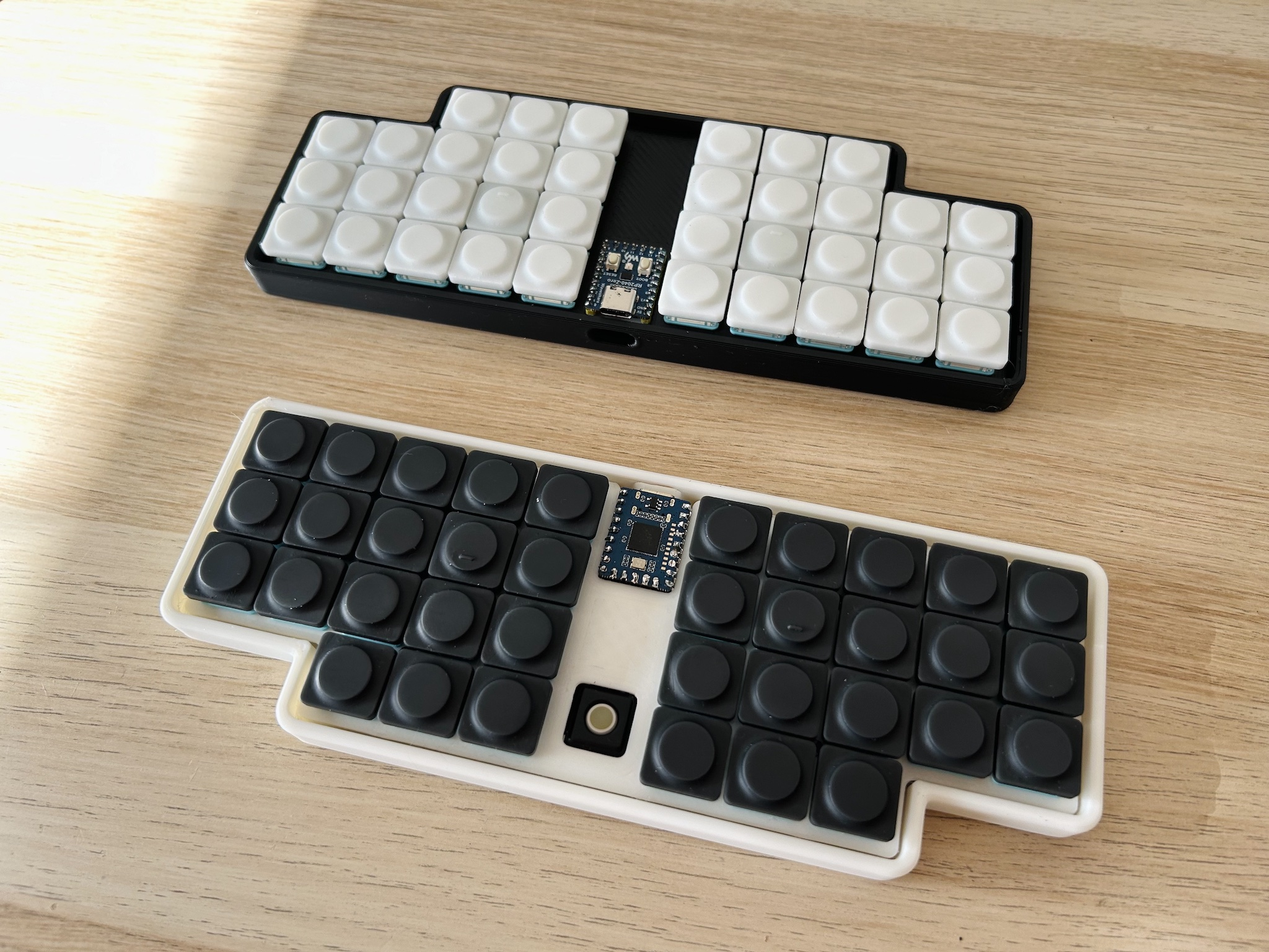
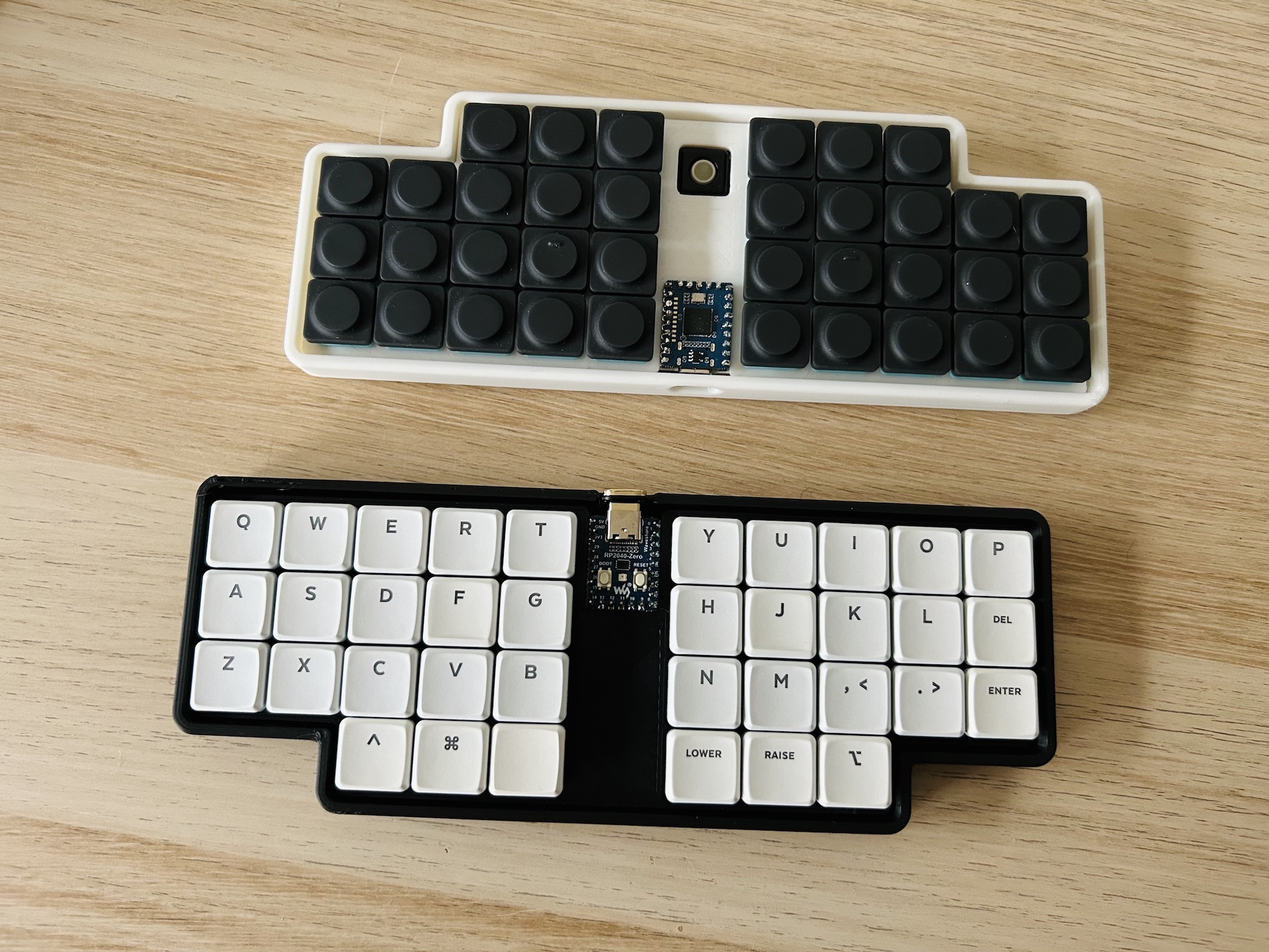
Update keymaps

diff --git a/firmware/QMK/keymaps/default/keymap.c b/firmware/QMK/keymaps/default/keymap.c
@@ -5,7 +5,7 @@ const uint16_t PROGMEM keymaps[][MATRIX_ROWS][MATRIX_COLS] = {
         KC_Q,    KC_W,    KC_E,    KC_R,   KC_T,   KC_Y,   KC_U,   KC_I,     KC_O,   KC_P,
         KC_A,    KC_S,    KC_D,    KC_F,   KC_G,   KC_H,   KC_J,   KC_K,     KC_L,   KC_BSPC,
         KC_Z,    KC_X,    KC_C,    KC_V,   KC_B,   KC_N,   KC_M,   KC_COMM,  KC_DOT, RSFT_T(KC_ENT),
-        KC_LSFT, TG(1),   KC_LGUI, KC_SPC, KC_SPC, TG(2),  KC_RALT
+        KC_LCTL, KC_LGUI, KC_SPC, KC_SPC,  MO(1),  MO(2),  KC_RALT
     ),
     [1] = LAYOUT( /* NAV */
         KC_ESC,  _______, _______, KC_TAB,  _______, KC_PGUP, KC_HOME, KC_UP,   KC_END,  _______,

diff --git a/firmware/QMK/keymaps/via/keymap.c b/firmware/QMK/keymaps/via/keymap.c
@@ -5,7 +5,7 @@ const uint16_t PROGMEM keymaps[][MATRIX_ROWS][MATRIX_COLS] = {
         KC_Q,    KC_W,    KC_E,    KC_R,   KC_T,   KC_Y,   KC_U,   KC_I,     KC_O,   KC_P,
         KC_A,    KC_S,    KC_D,    KC_F,   KC_G,   KC_H,   KC_J,   KC_K,     KC_L,   KC_BSPC,
         KC_Z,    KC_X,    KC_C,    KC_V,   KC_B,   KC_N,   KC_M,   KC_COMM,  KC_DOT, RSFT_T(KC_ENT),
-        KC_LSFT, TG(1),   KC_LGUI, KC_SPC, KC_SPC, TG(2),  KC_RALT
+        KC_LCTL, KC_LGUI, KC_SPC, KC_SPC,  MO(1),  MO(2),  KC_RALT
     ),
     [1] = LAYOUT( /* NAV */
         KC_ESC,  _______, _______, KC_TAB,  _______, KC_PGUP, KC_HOME, KC_UP,   KC_END,  _______,

diff --git a/README.md b/README.md
@@ -2,4 +2,4 @@
 
 ![](haori36-keyboard.jpg)
 
-Low-pro 36-key split monoblock ortholinear keyboard, with optional Pimoroni trackball support. 
+Low-pro 36-key hot swappable monoblock split ortho keyboard with optional Pimoroni trackball support.
